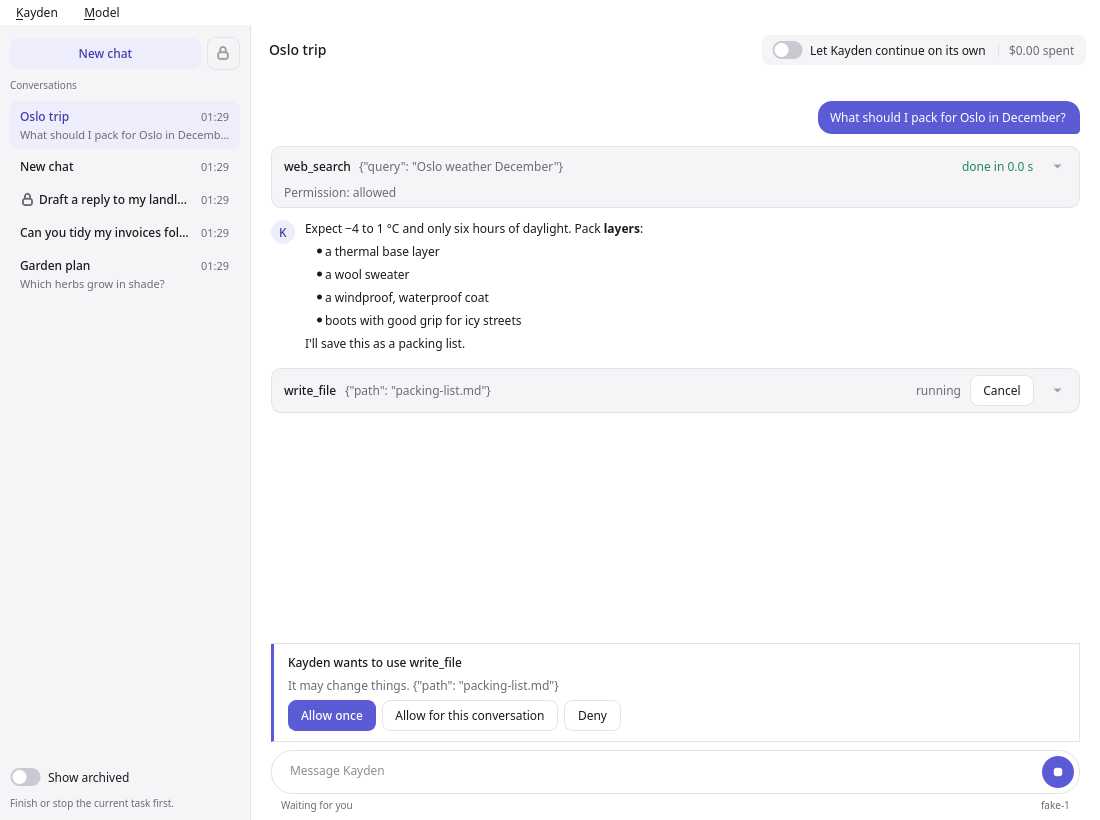
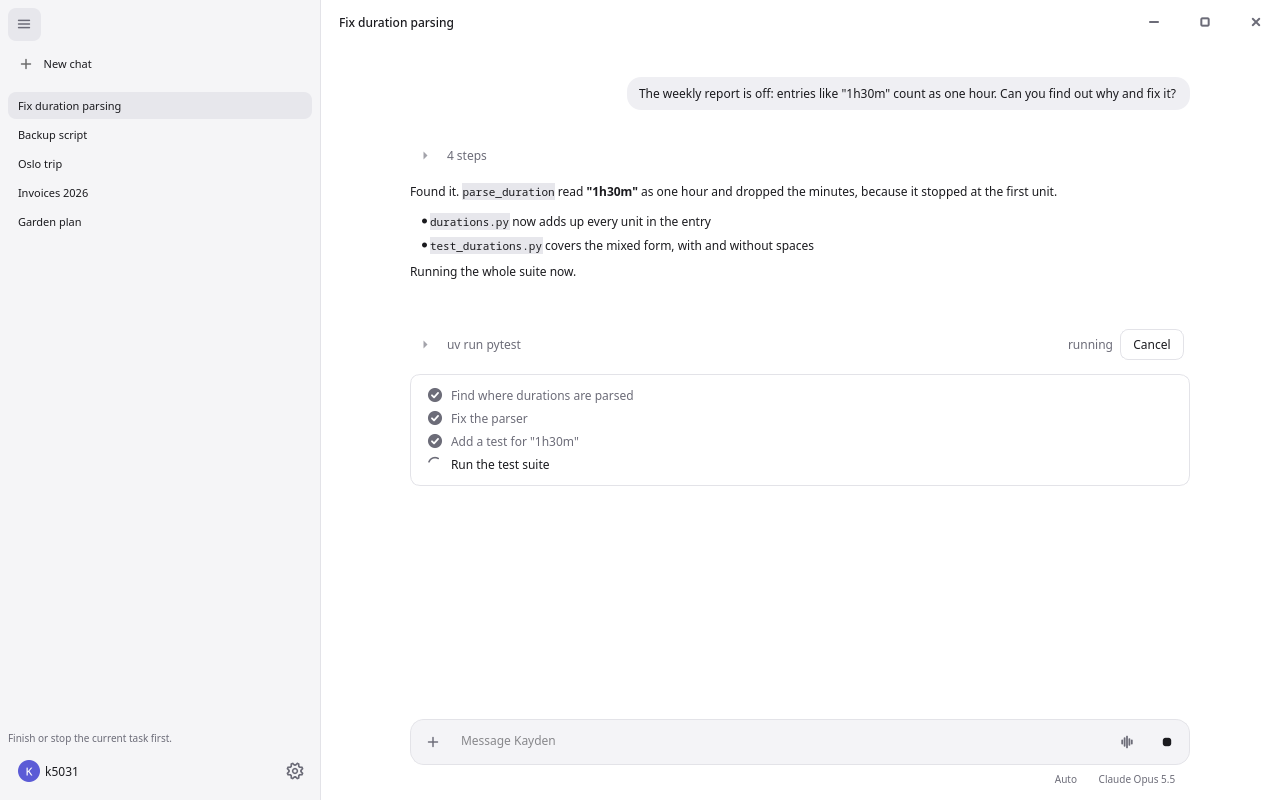
Show the desktop app in the README
The two pictures of the main window are redrawn from the app as it is now.

diff --git a/README.md b/README.md
@@ -5,6 +5,14 @@ files and searches the web, decides on its own only what is safe and asks you ab
 rest, and stops at hard spending limits. Works with Anthropic, DeepSeek and
 OpenAI-compatible models.
 
+<picture>
+  <source media="(prefers-color-scheme: dark)" srcset="docs/images/main-dark.png">
+  <img src="docs/images/main-light.png" alt="The Kayden desktop app, working through a checklist while it fixes a bug">
+</picture>
+
+The [desktop app](docs/desktop-app.md): Kayden plans the task as a checklist, works through
+it step by step and reports what it found.
+
 A runtime drives four swappable modules (Core, Memory, Tools, Frontend); see
 `src/kayden/api.py` and `SPEC.md`.
 
